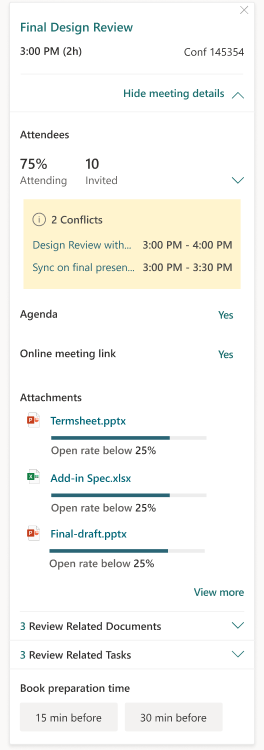
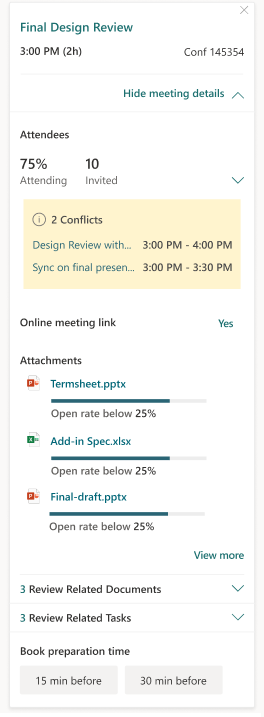
edits from PD

diff --git a/WorkplaceAnalytics/MyAnalytics/Use/use-the-insights.md b/WorkplaceAnalytics/MyAnalytics/Use/use-the-insights.md
@@ -57,13 +57,13 @@ Some of these options apply to the meeting organizer, some apply to invitees, an
 | Card section | Notes | Recommendations |
 | :--- | --- | --- |
 | (Card title) | Meeting title, organizer, start time, and location | | 	
-| **Attendees** | The percentage of invitees who have accepted, and the number of invitees. Select **See details** for more information. | Make sure that you have a quorum before the meeting. Consider sending a reminder if you haven't heard back from attendees. &emsp;&emsp;&emsp;&emsp;&emsp;&emsp;&emsp;&emsp;&emsp;&emsp;&emsp;&emsp;&emsp;&emsp;&emsp;&emsp;&emsp;&emsp;| 
-| _Conflicts_ | This section outlines all other meetings that have a conflict with this meeting. | Before the meeting, you can use this section to resolve conflicts by responding **Yes** or **No**. Doing so helps other meeting participants know whether there will be a quorum for this meeting. | 
-| **Respond** (This section is only for invitees, not for the organizer.) &emsp; &emsp; &emsp;&emsp; | You can respond **Yes** or **No** to the meeting invitation. If you have already responded, your response is shown here. | Responses help the organizer determine whether required participants can attend, and then take necessary steps (such as rescheduling) if necessary. |
+| **Attendees** | The percentage of invitees who have accepted, and the number of invitees. Select the down arrow to see more information about these attendees. | Make sure that you have a quorum before the meeting. Consider sending a reminder if you haven't heard back from attendees. &emsp;&emsp;&emsp;&emsp;&emsp;&emsp;&emsp;&emsp;&emsp;&emsp;&emsp;&emsp;&emsp;&emsp;&emsp;&emsp;&emsp;&emsp;| 
+| **Conflicts** | This section outlines all other meetings that have a conflict with this meeting. | Take time to resolve conflicts well ahead of each meeting. Doing so helps other participants know whether there will be a quorum for the meeting. | 
+| **Respond**  &emsp; &emsp; &emsp;&emsp; | (This section is only for the invitees, not for the organizer.) <p>You can respond **Yes** or **No** to the meeting invitation. If you have already responded, your response is shown here. | Responses help the organizer determine whether required participants can attend, and then take necessary steps (such as rescheduling) if necessary. |
 | **Attachments** | This section shows the number of attachments, their titles, and their storage location (online or local). You can see more details and you can open the attachment if it is stored online. <br> If you are the organizer and the invitation contains attached cloud documents, you can see the [open rates](#open-rate) for those documents.  | |
 | **Related documents** | This section shows documents that you might want to review to prepare for the meeting. | 
 | **Related tasks** | This section shows tasks that you might want to complete to prepare for the meeting. | 
-| **Online meeting link** (This section is only for the organizer, not for the invitees.) | **Yes** or **No** indicates whether the meeting invitation includes a link for joining the meeting online in Skype for business or in Teams. | Be an inclusive meeting organizer. If you have attendees who are working remotely, consider adding an online link to your meeting. To do this, select **Online meeting link** to add one. |
+| **Online meeting link**  | (This section is only for the organizer, not for the invitees.) <p> **Yes** or **No** indicates whether the meeting invitation includes a link for joining the meeting online in Skype for business or in Teams. | Be an inclusive meeting organizer. If you have attendees who are working remotely, consider adding an online link to your meeting.  |
 | **Preparation time** | This section gives you the options to book either 15 minutes or 30 minutes of preparation time. This option appears only if there is an available slot in your calendar right before the meeting. Booked time appears on your calendar and references the meeting, as "Preparation time for [meeting title]." You can also cancel the meeting-preparation time or delete it directly from your calendar.	| Be prepared. If you need travel time or have other tasks that need to be done right before the meeting to prepare for it, consider booking preparation time. |
 
 <!-- Here is the new section from Rishabh (April 2020). I am using it instead of the new section from Vivek (May 2020) because Rishabh's section includes document open rates (a new feature), not just email open rates (the old feature). -->
